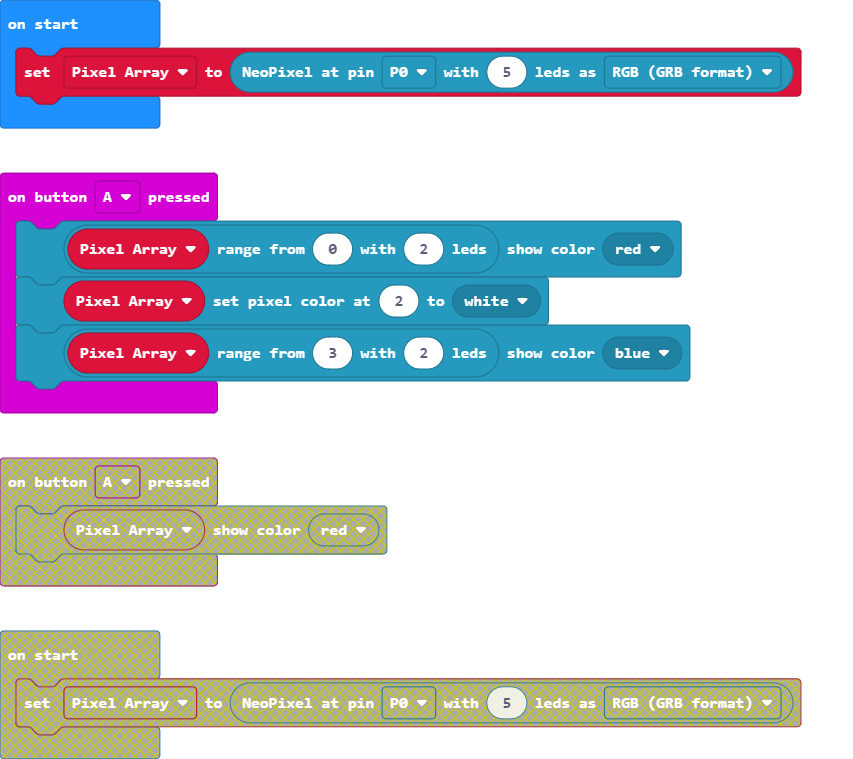
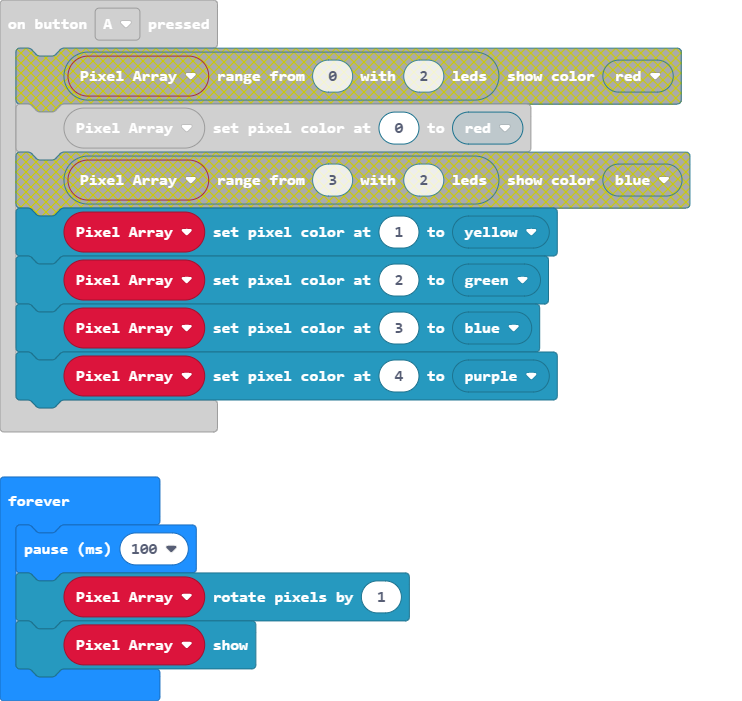
Update main.blocks, main.ts

diff --git a/main.ts b/main.ts
@@ -1,7 +1,9 @@
 input.onButtonPressed(Button.A, function () {
-    Pixel_Array.range(0, 2).showColor(neopixel.colors(NeoPixelColors.Red))
-    Pixel_Array.setPixelColor(2, neopixel.colors(NeoPixelColors.White))
-    Pixel_Array.range(3, 2).showColor(neopixel.colors(NeoPixelColors.Blue))
+    Pixel_Array.setPixelColor(0, neopixel.colors(NeoPixelColors.Red))
+    Pixel_Array.setPixelColor(1, neopixel.colors(NeoPixelColors.Yellow))
+    Pixel_Array.setPixelColor(2, neopixel.colors(NeoPixelColors.Green))
+    Pixel_Array.setPixelColor(3, neopixel.colors(NeoPixelColors.Blue))
+    Pixel_Array.setPixelColor(4, neopixel.colors(NeoPixelColors.Purple))
 })
 input.onButtonPressed(Button.B, function () {
     Pixel_Array.clear()
@@ -9,3 +11,8 @@ input.onButtonPressed(Button.B, function () {
 })
 let Pixel_Array: neopixel.Strip = null
 Pixel_Array = neopixel.create(DigitalPin.P0, 5, NeoPixelMode.RGB)
+basic.forever(function () {
+    basic.pause(100)
+    Pixel_Array.rotate(1)
+    Pixel_Array.show()
+})
